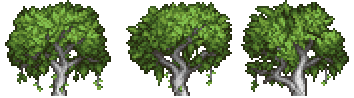
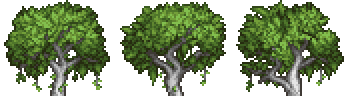
Tropics tree and slime fixes

diff --git a/NPCs/TropicalSlime.cs b/NPCs/TropicalSlime.cs
@@ -19,7 +19,7 @@ public class TropicalSlime : ModNPC
     public override void SetDefaults()
     {
         NPC.damage = 19;
-        NPC.alpha = 175;
+        NPC.alpha = 75;
         NPC.lifeMax = 60;
         NPC.defense = 1;
         NPC.width = 36;
@@ -28,7 +28,7 @@ public class TropicalSlime : ModNPC
         NPC.knockBackResist = 0.4f;
         AnimationType = NPCID.BlueSlime;
         NPC.height = 24;
-        NPC.scale = 1.2f;
+        NPC.scale = 1.1f;
         NPC.HitSound = SoundID.NPCHit1;
         NPC.DeathSound = SoundID.NPCDeath1;
         Banner = NPC.type;

diff --git a/Tiles/TropicalTree.cs b/Tiles/TropicalTree.cs
@@ -15,7 +15,7 @@ public class TropicalTree : ModTree
     public override void SetTreeFoliageSettings(Tile tile, ref int xoffset, ref int treeFrame, ref int floorY, ref int topTextureFrameWidth, ref int topTextureFrameHeight)
     {
         xoffset = 2;
-        topTextureFrameWidth = 118;
+        topTextureFrameWidth = 116;
         topTextureFrameHeight = 96;
     }
 
